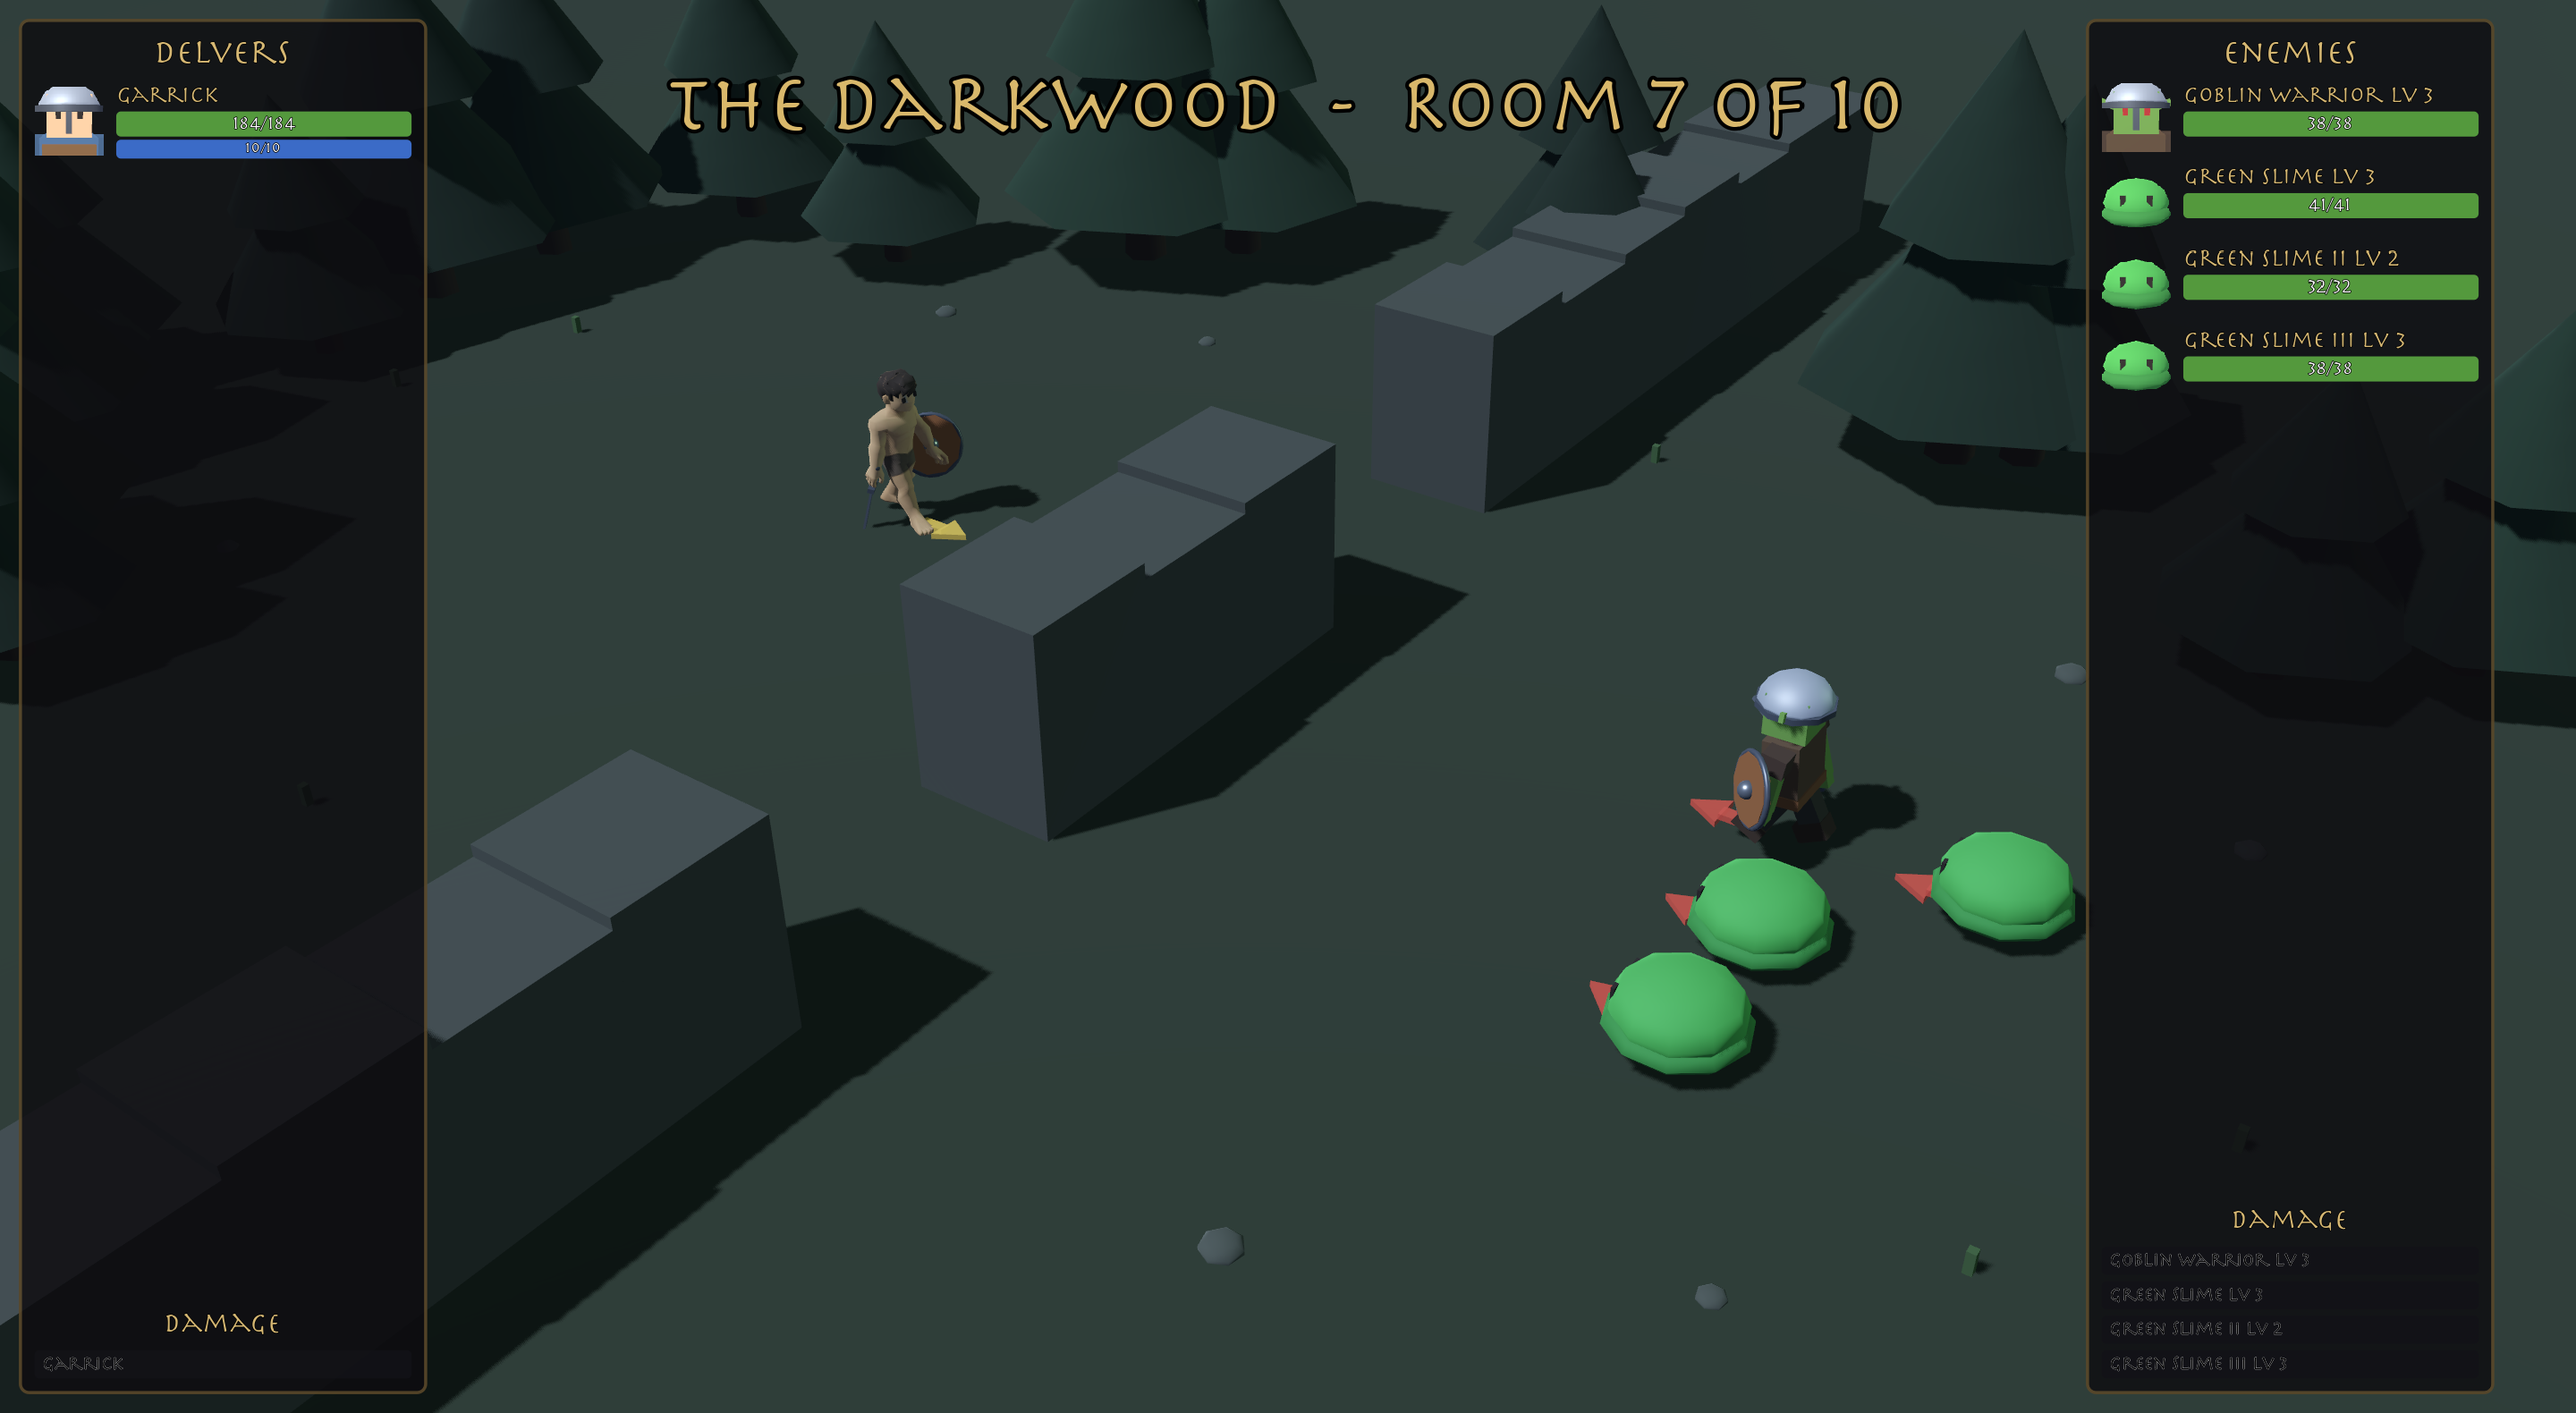
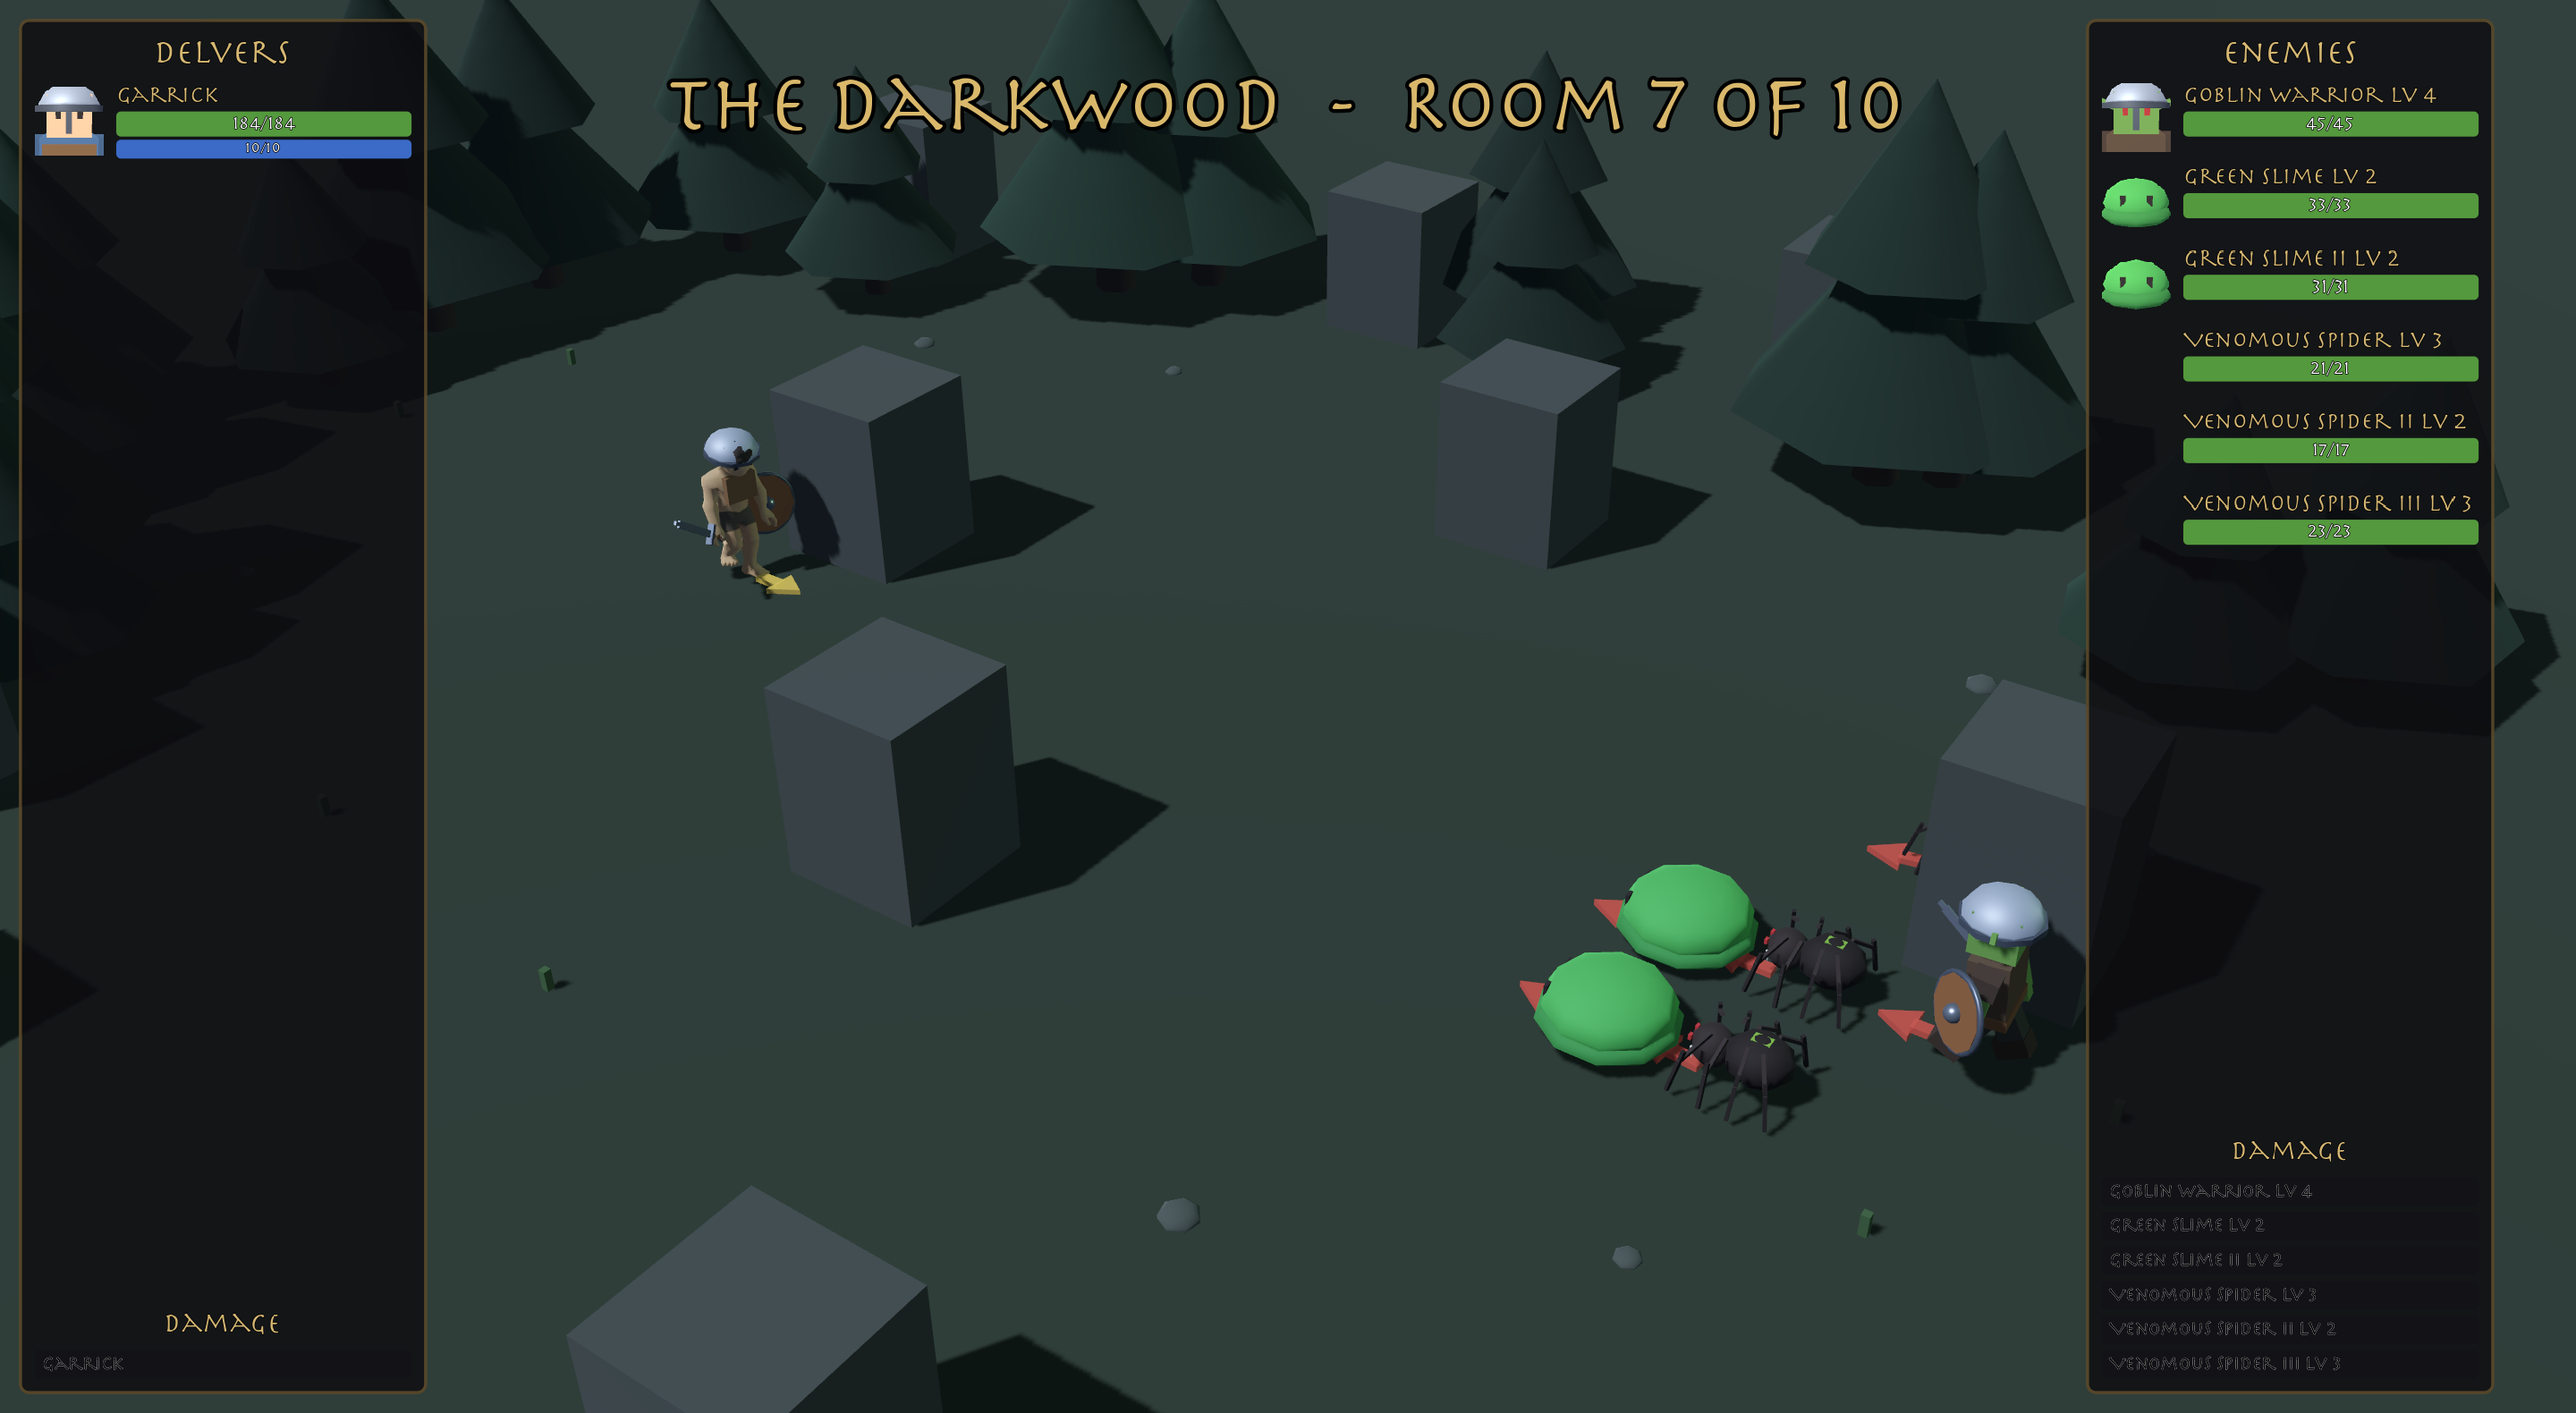
The delvers dress for work; the blade gets polished by the fire.
Worn gear reaches the imported models: every slot mounts on the
skeleton via bone attachments, reading the exact same opt keys the
procedural rigs dress with - fitted helmet on the head bone (0.7
scale; the first attempt was a mushroom), two-tier pauldrons on the
upper arms, chest plate and gold-buckled belt on the spine and waist,
gauntlets, bracers, greaves, and boots on their limbs, the bow
standing vertical in the archer's grip. The cloak is a SpringTail
with a rectangular cross-section - it hangs from the shoulder blades
and sways with movement, the promise kept.

And the camp nit: seated with a sword, the blade now rests across
the lap - the fist rotated to lay it flat - while the off hand works
it in slow strokes. The guild's quietest storytelling: delvers who
maintain their steel between descents.

diff --git a/CHANGELOG.md b/CHANGELOG.md
@@ -5,6 +5,15 @@ Notable changes per pull request. Newest first.
 ## PR #12 — Guild Engineering & the Sunken Workshop *(open)*
 
 ### Added
+- **The delvers get dressed** (worn gear on imported models): every
+  worn slot mounts on the skeleton — helmet (fitted), pauldrons,
+  chest plate, gold-buckled belt, gauntlets, bracers, greaves, boots,
+  the bow in the archer's grip — reading the exact same opt keys the
+  procedural rigs dress with. The **cloak is a SpringTail**: it sways
+  with movement, exactly as promised.
+- **The campfire polish**: seated with a sword, the blade now rests
+  across the lap and the off hand works it in slow strokes — the
+  guild's quietest storytelling.
 - **Wren's hair moves** (`SpringTail`): a verlet spring chain hangs
   from her head bone — the ponytail trails her movement, swings
   through on stops, and settles under gravity, never glued to the
